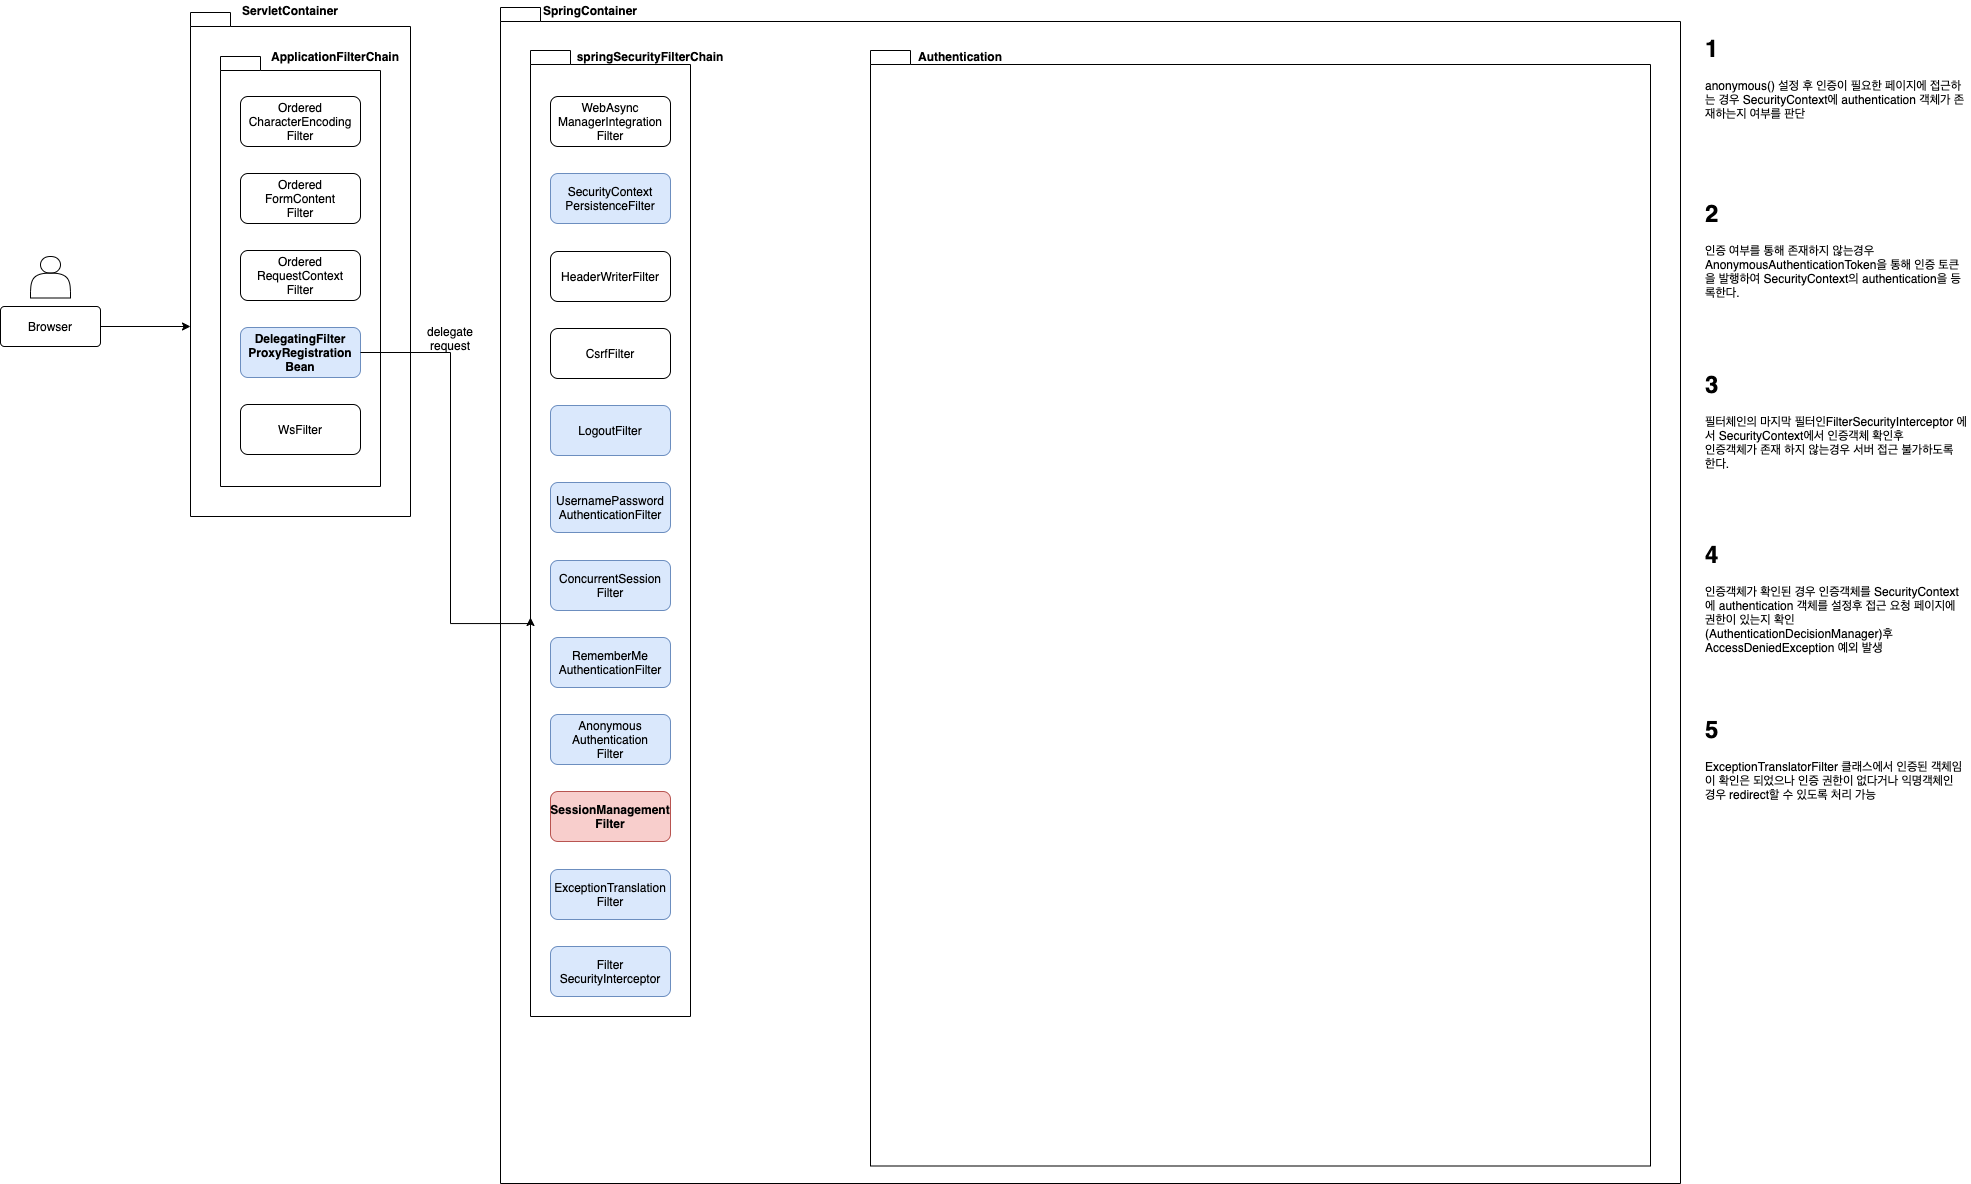
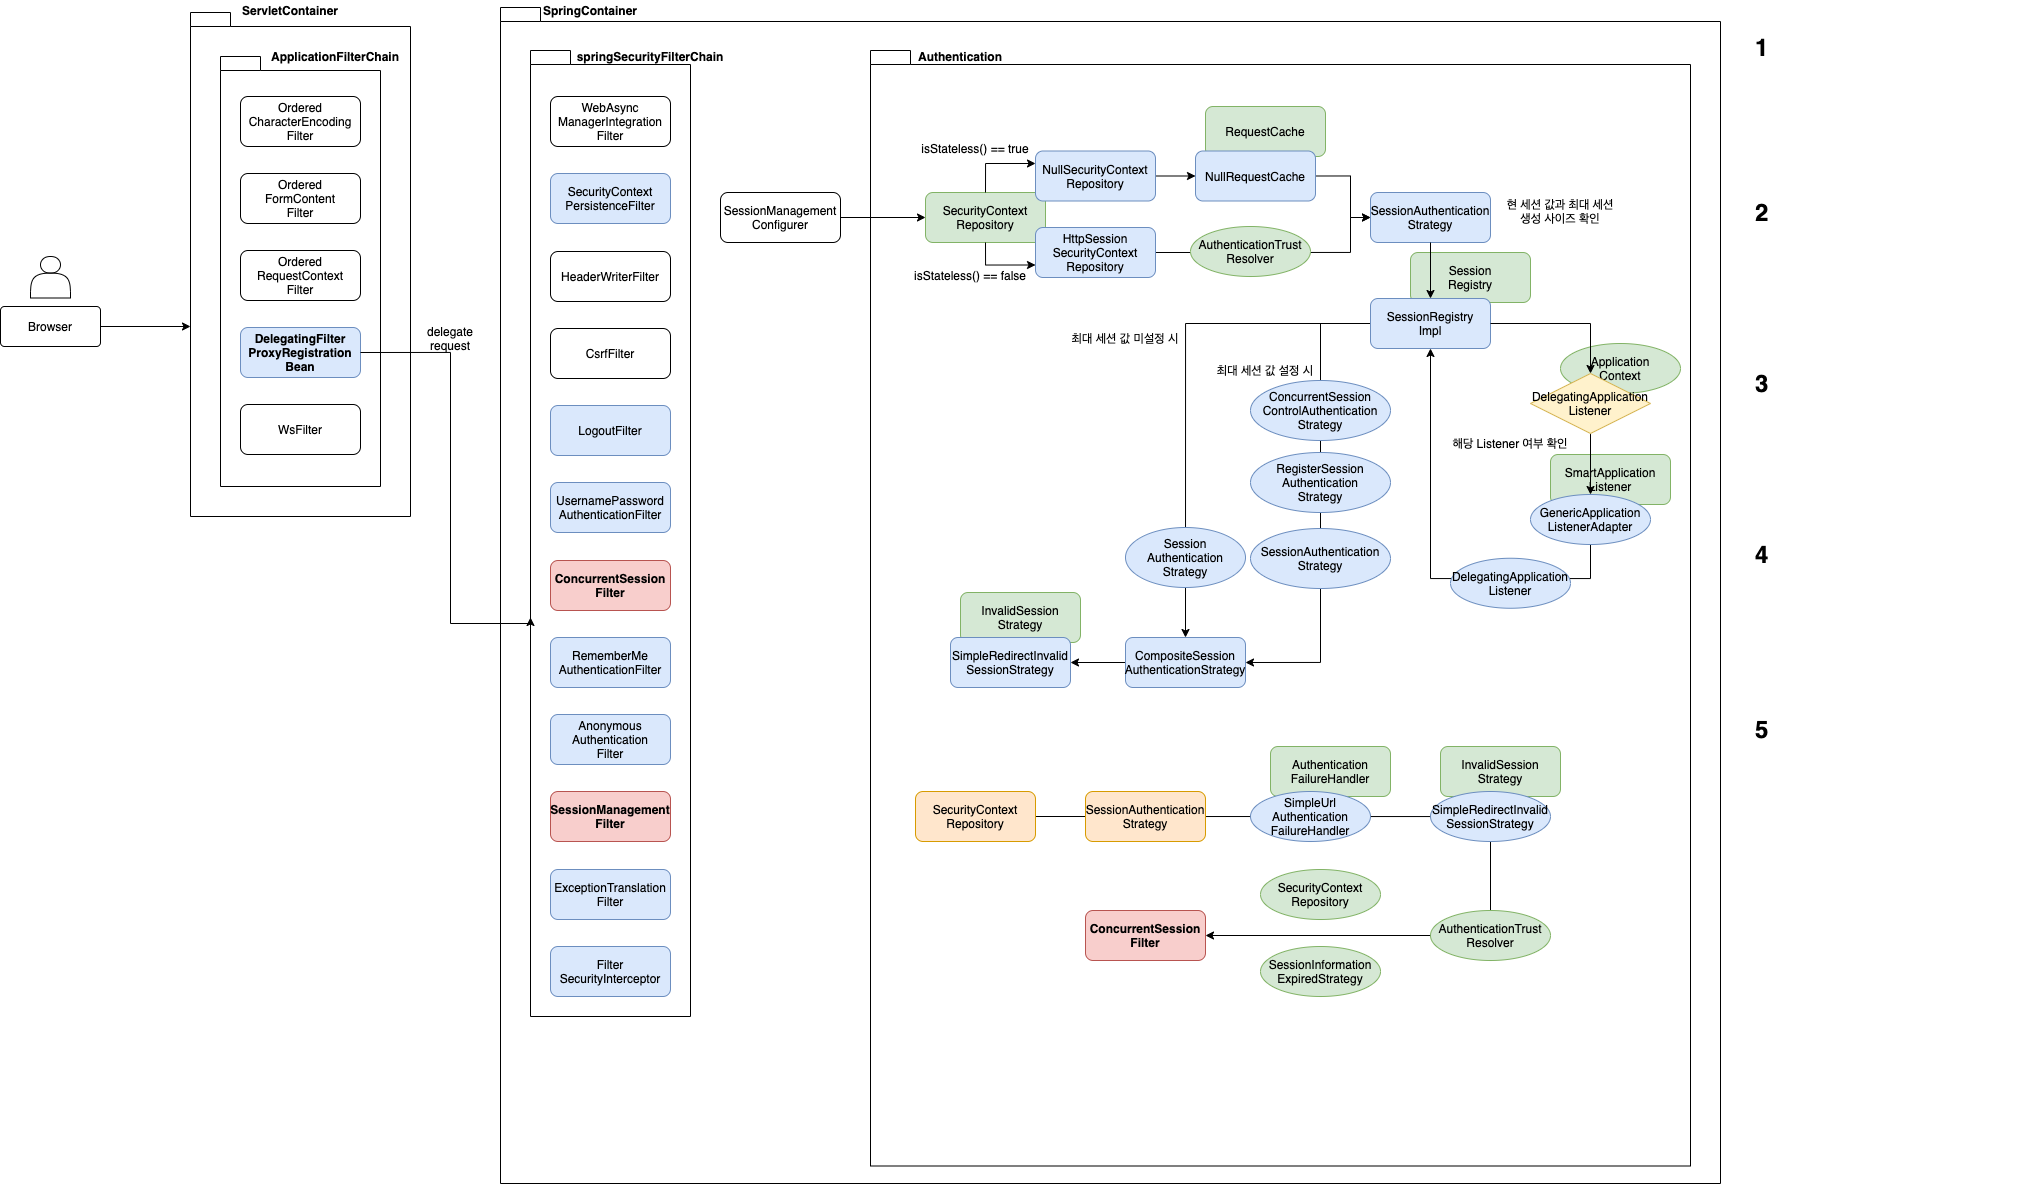
[2.1.14 ~ 15 SessionManagementFilter, ConcurrentSessionFilter] flow 정리 중

diff --git a/security-basic-api/src/main/java/kr/seok/SecurityConfig.java b/security-basic-api/src/main/java/kr/seok/SecurityConfig.java
@@ -79,11 +79,11 @@ public class SecurityConfig extends WebSecurityConfigurerAdapter {
                 .userDetailsService(userDetailsService)
             .and()
                 .anonymous()
-//            .and()
+            .and()
                 /* 세션 관리 */
-//                .sessionManagement()
-//                .maximumSessions(1)
-//                .maxSessionsPreventsLogin(true)
+                .sessionManagement()
+                .maximumSessions(1)
+                .maxSessionsPreventsLogin(true)
 //                .expiredUrl("/login")
                 /* 위 API 와 함께 사용할 수 없음 */
 //                .sessionManagement()
@@ -91,16 +91,16 @@ public class SecurityConfig extends WebSecurityConfigurerAdapter {
 
 
             /* 사용자의 쿠키를 공격자의 쿠키로 인증처리 한 뒤 공격자가 해당 쿠키로 인증하는 세션 고정 공격 */
-            .and()
+//            .and()
                 /* 세션 고정 보호*/
-                .sessionManagement()
-                .sessionFixation()
+//                .sessionManagement()
+//                .sessionFixation()
                 /* 세센 고정 보호를 사용하지 않는 경우 위와 같은 문제가 발생할 수 있음 */
 //                 .none()
 //                 .migrateSession()
 //                 .newSession()
                 /* 인증 처리 시 기존 세션 내용을 새로운 인증 세션으로 변경하는 방법 */
-                .changeSessionId()
+//                .changeSessionId()
 //            .and()
 //                .sessionManagement()
                 /* 스프링 시큐리티가 항상 세션을 생성하는 정책 */

diff --git a/docs/lecture/2.security-basic.md b/docs/lecture/2.security-basic.md
@@ -226,10 +226,12 @@
 
 2. 동시적 세션 제어
     - 동일 계정으로 접속이 허용되는 최대 세션 수를 제한
-
+    - ConcurrentSessionControlAuthenticationStrategy
+    
 3. 세션 고정 보호
     - 인증 할 때마다 세션 쿠키를 새로 발급하여 공격자의 쿠키 조작을 방지
- 
+    - ChangeSessionIdAuthenticationStrategy
+     
 4. 세션 생성 정책
     - Always, if_Required, Never, Stateless
 
@@ -240,6 +242,15 @@
     - 로그아웃 처리
     - 즉시 오류 페이지 응답
 
+- check point
+    - 동시적 세션 제어를 처리하기위해 ConcurrentSessionFilter와 SessionManagementFilter의 처리과정을 살펴볼 것
+
+- 시나리오
+    1. Session의 등록
+    2. 동일 계정 접속 시 세션 처리 방식
+        - 인증 실패 전략
+        - 세션 만료 전략
+        
 ### 2.1.16. 권한 설정
 
 ### 2.1.17 표현식
